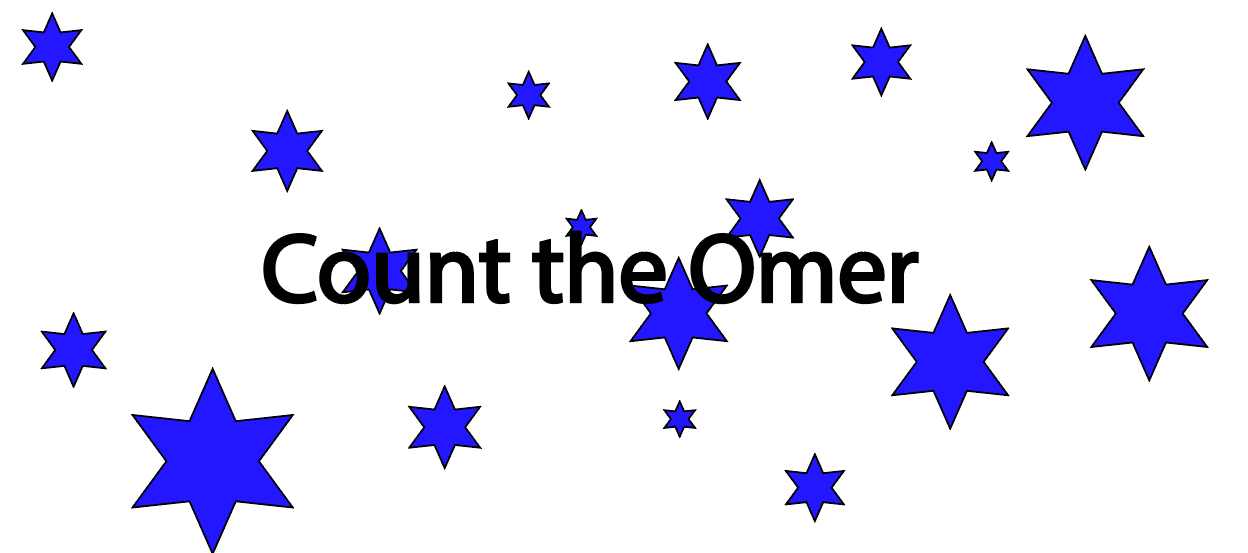
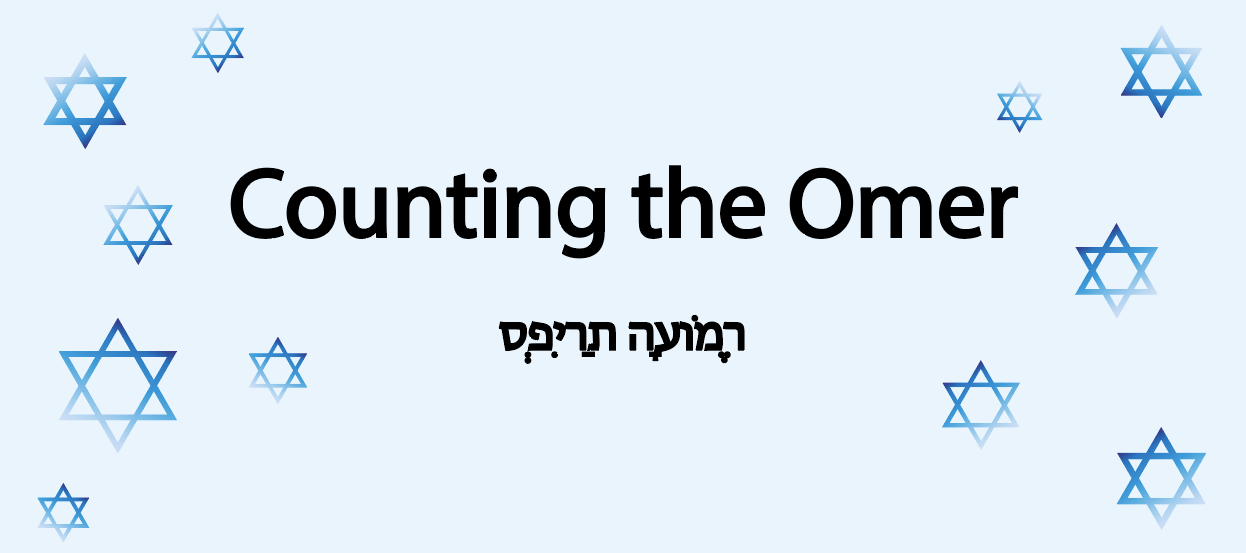
Add Images to Buttons and New HomeScreen Image

diff --git a/Main/HomeScreen.java b/Main/HomeScreen.java
@@ -7,6 +7,7 @@ public class HomeScreen {
 
 	private static final int SCREEN_WIDTH = 1520;
 	private static final int SCREEN_HEIGHT = 820;
+	private static final Color BACKGROUND_COLOUR = new Color(232, 244, 253);
 	private JFrame frame;
 	private JPanel buttonPanel;
 	private JButton about;
@@ -24,11 +25,11 @@ public class HomeScreen {
 
 		this.frame = mainFrame;
 
-		frame.setBackground(Color.WHITE);
+		frame.setBackground(BACKGROUND_COLOUR);
 
 		JPanel homePanel = new JPanel(new GridBagLayout());
 		homePanel.setPreferredSize(new Dimension(SCREEN_WIDTH, SCREEN_HEIGHT));
-		homePanel.setBackground(Color.WHITE);
+		homePanel.setBackground(BACKGROUND_COLOUR);
 
 		ImageIcon icon = new ImageIcon("Main/ButtonImages/HomeTest1.PNG"); // Main image that displays on screen
 		JLabel imageLabel = new JLabel(icon);
@@ -39,18 +40,41 @@ public class HomeScreen {
 
 		buttonPanel = new JPanel(new FlowLayout(FlowLayout.CENTER));
 		buttonPanel.setLayout(new FlowLayout(FlowLayout.CENTER, 50, 0)); // Centers all elements
-		buttonPanel.setBackground(Color.WHITE);
+		buttonPanel.setBackground(BACKGROUND_COLOUR);
 
-		calendar = new JButton("Start Counting");
+		calendar = new JButton();
 		calendar.setName("Start Counting"); // Set ButtonID
-		calendar.setPreferredSize(new Dimension(200, 60)); // Set size
+		calendar.setPreferredSize(new Dimension(180, 60)); // Set size
 		calendar.addActionListener(new ButtonListener(calendar, frame)); // Add ActionListener
+
+		String imagePath = "Main/ButtonImages/StartCounting.PNG"; // Accesses images from folder
+		ImageIcon calendarIcon = new ImageIcon(imagePath);
+		Image calendarImage = calendarIcon.getImage();
+		Image scaledImage = calendarImage.getScaledInstance(180, 60, java.awt.Image.SCALE_SMOOTH); // Scales image
+		ImageIcon scaledCalendarIcon = new ImageIcon(scaledImage);
+		calendar.setIcon(scaledCalendarIcon);
+
+		String imagePath2 = "Main/ButtonImages/Week7.PNG"; // Accesses images from folder
+		ImageIcon weekIcon = new ImageIcon(imagePath2);
+		Image image = weekIcon.getImage();
+		Image scaledWeekImage = image.getScaledInstance(180, 60, java.awt.Image.SCALE_SMOOTH); // Scales image
+		ImageIcon scaledWeekIcon = new ImageIcon(scaledWeekImage);
+		calendar.setPressedIcon(scaledWeekIcon);
+
 		calendar.setBorder(BorderFactory.createEmptyBorder()); // Ensures there is no border around Button
 
-		about = new JButton("About");
+		about = new JButton();
 		about.setName("About"); // Set ButtonID
-		about.setPreferredSize(new Dimension(200, 60)); // Set size
+		about.setPreferredSize(new Dimension(180, 60)); // Set size
 		about.addActionListener(new ButtonListener(about, frame)); // AddActionListener
+
+		String imagePath3 = "Main/ButtonImages/About.PNG"; // Accesses images from folder
+		ImageIcon aboutIcon = new ImageIcon(imagePath3);
+		Image aboutImage = aboutIcon.getImage();
+		Image scaledImage2 = aboutImage.getScaledInstance(180, 60, java.awt.Image.SCALE_SMOOTH); // Scales image
+		ImageIcon scaledAboutIcon = new ImageIcon(scaledImage2);
+		about.setIcon(scaledAboutIcon);
+		about.setPressedIcon(scaledWeekIcon);
 		about.setBorder(BorderFactory.createEmptyBorder()); // Ensures there is no border around Button
 
 		buttonPanel.add(calendar);

diff --git a/Main/Main.java b/Main/Main.java
@@ -41,7 +41,7 @@ public class Main {
 		// Ensures the program is starting
 		System.out.println("Running Program");
 
-		JFrame frame = new JFrame("Counting of the Omer");
+		JFrame frame = new JFrame("Counting the Omer");
 		frame.setDefaultCloseOperation(JFrame.EXIT_ON_CLOSE);
 
 		JPanel mainButtonPanel = new JPanel(new BorderLayout());
